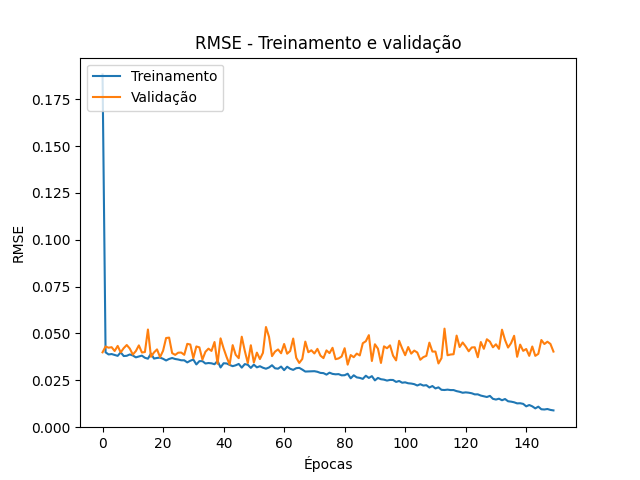
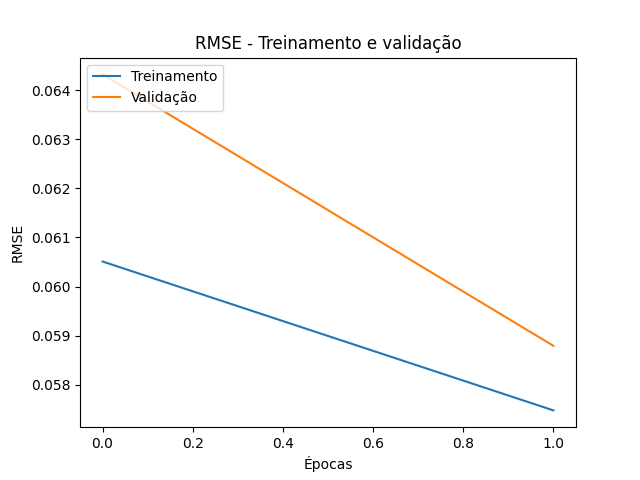
[UPD] Adicionado as métricas para o modelo LSTM

diff --git a/models/ModelLSTM.py b/models/ModelLSTM.py
@@ -2,7 +2,6 @@ import matplotlib
 import numpy as np
 import matplotlib.pyplot as plt
 from keras.models import Sequential
-from keras.layers import Dense
 from keras.layers import LSTM
 from pathlib import Path
 from keras import backend
@@ -18,7 +17,7 @@ def rmseMetric(y_true, y_pred):
 
 class ModelLSTM:
     """
-    Classe que representa o modelo MLP
+    Classe que representa o modelo LSTM
     """
 
     # constantes das funções de ativação
@@ -59,42 +58,7 @@ class ModelLSTM:
         if len(layers) < 3:
             raise Exception('ERRO! ')
 
-        # instacia o modelo
-        self.model = Sequential()
-
-        # # insere a camada de entrada
-        # input_layer = layers.pop(0)
-        # self.model.add(Dense(
-        #     input_layer['qtd_neurons'],
-        #     kernel_initializer='uniform',
-        #     activation=input_layer['activation'],
-        #     input_dim=self.input_dimension,
-        # ))
-        #
-        # # insere as camadas intermediárias e de saída
-        # for layer in layers:
-        #     self.model.add(Dense(
-        #         layer['qtd_neurons'],
-        #         kernel_initializer='uniform',
-        #         activation=layer['activation'],
-        #     ))
-        #
-        # # Compilação do modelo com as métricas: R2, RMSE e MAPE
-        # self.model.compile(
-        #     loss='binary_crossentropy',
-        #     optimizer='adam',
-        #     metrics=['accuracy', rmseMetric, 'mape'],
-        # )
-
-        # self.model.add(LSTM(4, input_shape=(1, self.input_dimension)))
-        # self.model.add(Dense(1))
-        # self.model.compile(loss='mean_squared_error', optimizer='adam')
-
-        print('=> SHAPE ORIGINAL: ')
-        print(self.data['x_train'].shape)
-        print(self.data['y_train'].shape)
-
-        # realiza o reshape
+        # realiza o reshape dos dados para serem utilizados no modelo LSTM
         self.data['x_train'] = self.data['x_train'].reshape(
             self.data['x_train'].shape[0], self.data['x_train'].shape[1], 1
         )
@@ -108,26 +72,22 @@ class ModelLSTM:
             self.data['x'].shape[0], self.data['x'].shape[1], 1
         )
 
-        # create and fit the LSTM network
+        # instacia o modelo
         self.model = Sequential()
+
         self.model.add(LSTM(4, input_shape=(self.data['x_train'].shape[1], self.data['x_train'].shape[2])))
-        # self.model.add(Dense(1))
 
-        self.model.compile(loss='mean_squared_error', optimizer='adam')
-
-        # model.fit(trainX, trainY, epochs=100, batch_size=1, verbose=2)
+        # compilação do modelo com as métricas: R2, RMSE e MAPE
+        self.model.compile(
+            loss='binary_crossentropy',
+            optimizer='adam',
+            metrics=['accuracy', rmseMetric, 'mape'],
+        )
 
     def __train(self):
         """
         Método responsável por realizar o treinamento e validação do modelo
         """
-        # print(len(self.data['x_train']))
-        # print(self.data['x_train'].shape)
-        # print(self.data['y_train'].shape)
-        # self.data['x_train'] = self.data['x_train'].reshape(self.data['x_train'].shape[0], self.data['x_train'].shape[1], 1)
-        # print(self.data['x_train'])
-        # print(self.data['x_train'].shape)
-
         history = self.model.fit(
             self.data['x_train'],
             self.data['y_train'],
@@ -142,18 +102,8 @@ class ModelLSTM:
         """
         Método responsável por realizar o teste do modelo
         """
-        print('passou 1 ... ')
-
-        print(self.data['x_test'])
-        print(self.data['y_test'])
-
         # avalia o modelo com os dados de teste
-        # loss, accuracy_model, rmse, mape = self.model.evaluate(self.data['x_test'], self.data['y_test'])
-        a = self.model.evaluate(self.data['x_test'], self.data['y_test'])
-
-        print(a)
-
-        print('passou 2 ... ')
+        loss, accuracy_model, rmse, mape = self.model.evaluate(self.data['x_test'], self.data['y_test'])
 
         # gera as detecções se cada notícia é fake ou não
         detections = self.model.predict(self.data['x'])
@@ -162,8 +112,7 @@ class ModelLSTM:
         rounded = [round(x[0]) for x in detections]
         accuracy_detection = np.mean(rounded == self.data['y'])
 
-        # return loss, accuracy_model, rmse, mape, accuracy_detection
-        return a
+        return loss, accuracy_model, rmse, mape, accuracy_detection
 
     def __result(self, history, loss, accuracy_model, rmse, mape, accuracy_detection):
         """
@@ -182,7 +131,7 @@ class ModelLSTM:
         :param accuracy_detection: Acurácia da detecção
         :type accuracy_detection: ndarray
         """
-        print('=> Modelo MLP')
+        print('=> Modelo LSTM')
         for key, layer in enumerate(self.layers):
             print('Camada %i: ' % (key + 1), end='')
             print('qtd_neurons: %i; ' % layer['qtd_neurons'], end='')
@@ -199,38 +148,38 @@ class ModelLSTM:
         # Apresentação dos gráficos de treinamento e validação da rede
         Path('graphics').mkdir(parents=True, exist_ok=True)
 
-        # plt.plot(history.history['rmseMetric'])
-        # plt.plot(history.history['val_rmseMetric'])
-        # plt.title('RMSE - Treinamento e validação')
-        # plt.xlabel('Épocas')
-        # plt.ylabel('RMSE')
-        # plt.legend(['Treinamento', 'Validação'], loc='upper left')
-        # plt.savefig('graphics/mlp_rmse.png')
-        # plt.close()
-        #
-        # plt.plot(history.history['mape'])
-        # plt.plot(history.history['val_mape'])
-        # plt.title('MAPE')
-        # plt.xlabel('Épocas')
-        # plt.ylabel('MAPE')
-        # plt.legend(['Treinamento', 'Validação'], loc='upper left')
-        # plt.savefig('graphics/mlp_mape.png')
-        # plt.close()
-        #
-        # plt.plot(history.history['accuracy'])
-        # plt.plot(history.history['val_accuracy'])
-        # plt.title('R2 - Treinamento e validação')
-        # plt.xlabel('Épocas')
-        # plt.ylabel('R2')
-        # plt.legend(['Treinamento', 'Validação'], loc='upper left')
-        # plt.savefig('graphics/mlp_r2.png')
-        # plt.close()
+        plt.plot(history.history['rmseMetric'])
+        plt.plot(history.history['val_rmseMetric'])
+        plt.title('RMSE - Treinamento e validação')
+        plt.xlabel('Épocas')
+        plt.ylabel('RMSE')
+        plt.legend(['Treinamento', 'Validação'], loc='upper left')
+        plt.savefig('graphics/mlp_rmse.png')
+        plt.close()
+
+        plt.plot(history.history['mape'])
+        plt.plot(history.history['val_mape'])
+        plt.title('MAPE')
+        plt.xlabel('Épocas')
+        plt.ylabel('MAPE')
+        plt.legend(['Treinamento', 'Validação'], loc='upper left')
+        plt.savefig('graphics/mlp_mape.png')
+        plt.close()
+
+        plt.plot(history.history['accuracy'])
+        plt.plot(history.history['val_accuracy'])
+        plt.title('R2 - Treinamento e validação')
+        plt.xlabel('Épocas')
+        plt.ylabel('R2')
+        plt.legend(['Treinamento', 'Validação'], loc='upper left')
+        plt.savefig('graphics/mlp_r2.png')
+        plt.close()
 
     def predict(self):
         """
-        Método que realiza todas as etapas para detecção de Fake News com o modelo MLP
+        Método que realiza todas as etapas para detecção de Fake News com o modelo
         """
-        print('Iniciando a detecção de fake news com o modelo MLP... ')
+        print('Iniciando a detecção de fake news com o modelo LSTM... ')
 
         print('Criando o modelo... ')
         self.__create_model()
@@ -239,9 +188,8 @@ class ModelLSTM:
         history = self.__train()
 
         print('Testando o modelo o modelo... ')
-        # loss, accuracy_model, rmse, mape, accuracy_detection = self.__test()
-        a = self.__test()
+        loss, accuracy_model, rmse, mape, accuracy_detection = self.__test()
 
         print('Detecção de fake news realizada com sucesso! ')
         print('\nResultados: ')
-        # self.__result(history, loss, accuracy_model, rmse, mape, accuracy_detection)
+        self.__result(history, loss, accuracy_model, rmse, mape, accuracy_detection)
